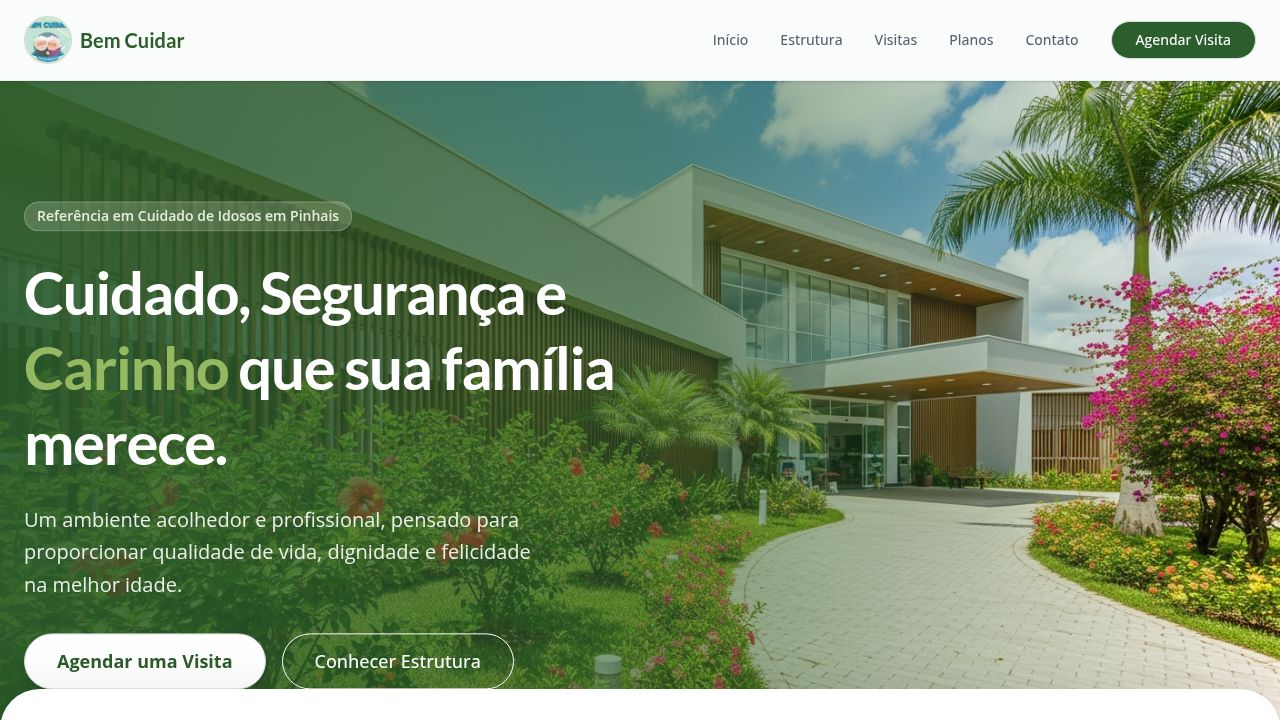
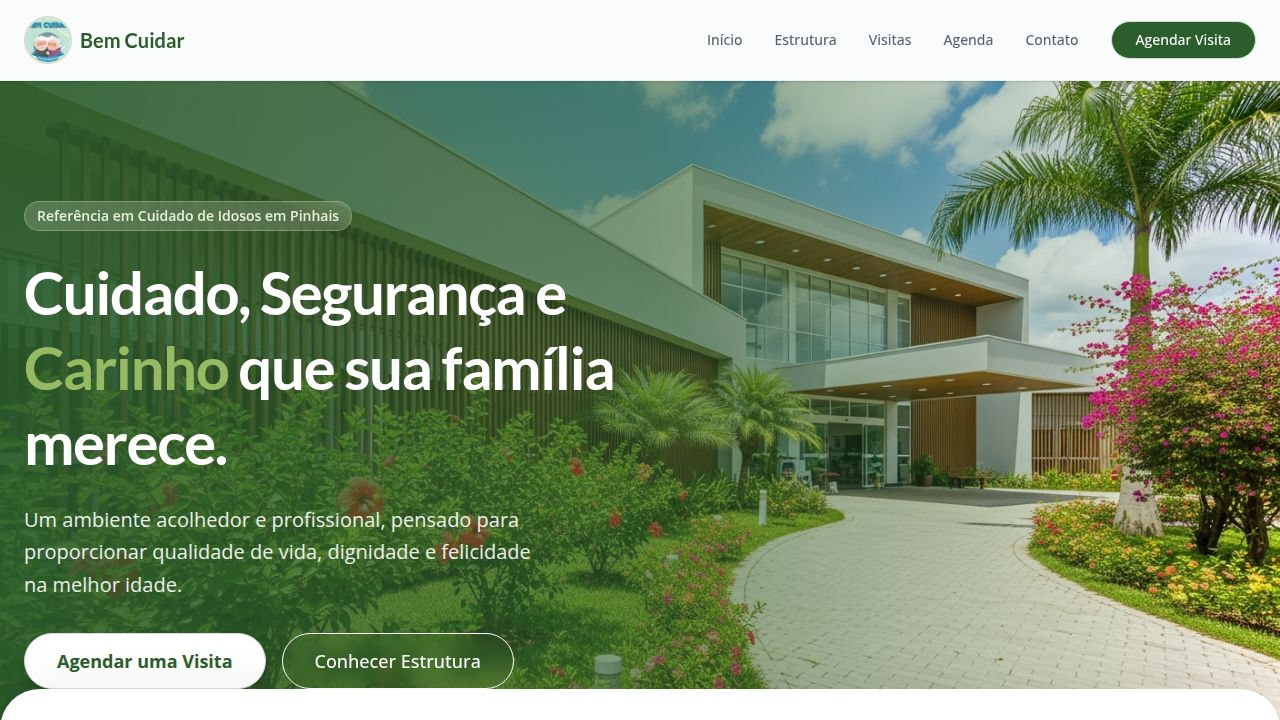
Update website to display monthly events calendar
Replaced the "Pricing" section with an "Events Calendar" component. Implemented functionality to add and remove events, updating navigation links and the footer accordingly.

Replit-Commit-Author: Agent
Replit-Commit-Session-Id: d6f86109-da02-4c51-b2ce-20e74813e2aa
Replit-Commit-Checkpoint-Type: full_checkpoint
Replit-Commit-Event-Id: f1f85dec-6315-4601-aa45-953a1997d51e
Replit-Commit-Screenshot-Url: https://storage.googleapis.com/screenshot-production-us-central1/2fa7d28e-f848-4b19-a7bf-7d39d6e118d5/d6f86109-da02-4c51-b2ce-20e74813e2aa/PxUGny5
Replit-Helium-Checkpoint-Created: true

diff --git a/client/src/components/sections/EventsCalendar.tsx b/client/src/components/sections/EventsCalendar.tsx
@@ -1,0 +1,308 @@
+import { useState } from "react";
+import { Calendar as CalendarIcon, Clock, MapPin, Users, Plus, Trash2 } from "lucide-react";
+import { Button } from "@/components/ui/button";
+import {
+  Dialog,
+  DialogContent,
+  DialogDescription,
+  DialogFooter,
+  DialogHeader,
+  DialogTitle,
+  DialogTrigger,
+} from "@/components/ui/dialog";
+import { Input } from "@/components/ui/input";
+import { Label } from "@/components/ui/label";
+import { Textarea } from "@/components/ui/textarea";
+
+interface Event {
+  id: number;
+  day: string;
+  month: string;
+  title: string;
+  time: string;
+  location: string;
+  audience: string;
+  description: string;
+  type: 'fixed' | 'special';
+}
+
+const initialEvents: Event[] = [
+  {
+    id: 1,
+    day: "06",
+    month: "DEZ",
+    title: "Bola de Neve - Aniversariantes do Mês",
+    time: "15:00 - 17:00",
+    location: "Salão de Festas",
+    audience: "Todos os residentes",
+    description: "Celebração dos aniversariantes do mês com bolo, música e muita alegria",
+    type: 'special'
+  },
+  {
+    id: 2,
+    day: "13",
+    month: "DEZ",
+    title: "Culto Congregação Cristã",
+    time: "14:00 - 16:00",
+    location: "Sala de Atividades",
+    audience: "Aberto a todos",
+    description: "Momento de fé e reflexão espiritual",
+    type: 'fixed'
+  },
+  {
+    id: 3,
+    day: "14",
+    month: "DEZ",
+    title: "Encontro Espírita",
+    time: "10:00 - 12:00",
+    location: "Sala de Atividades",
+    audience: "Aberto a todos",
+    description: "Encontro espírita com passes e evangelização",
+    type: 'fixed'
+  },
+  {
+    id: 4,
+    day: "27",
+    month: "DEZ",
+    title: "Culto Congregação Cristã",
+    time: "14:00 - 16:00",
+    location: "Sala de Atividades",
+    audience: "Aberto a todos",
+    description: "Momento de fé e reflexão espiritual",
+    type: 'fixed'
+  },
+  {
+    id: 5,
+    day: "28",
+    month: "DEZ",
+    title: "Culto Universal",
+    time: "10:00 - 12:00",
+    location: "Sala de Atividades",
+    audience: "Aberto a todos",
+    description: "Culto da Igreja Universal do Reino de Deus",
+    type: 'fixed'
+  }
+];
+
+export function EventsCalendar() {
+  const [events, setEvents] = useState<Event[]>(initialEvents);
+  const [isOpen, setIsOpen] = useState(false);
+  
+  // Form State
+  const [newEvent, setNewEvent] = useState({
+    day: "",
+    month: "DEZ",
+    title: "",
+    time: "",
+    location: "",
+    audience: "",
+    description: ""
+  });
+
+  const handleAddEvent = () => {
+    if (!newEvent.day || !newEvent.title) return;
+
+    const event: Event = {
+      id: Date.now(),
+      day: newEvent.day.padStart(2, '0'),
+      month: newEvent.month,
+      title: newEvent.title,
+      time: newEvent.time,
+      location: newEvent.location,
+      audience: newEvent.audience,
+      description: newEvent.description,
+      type: 'special'
+    };
+
+    setEvents([...events, event].sort((a, b) => parseInt(a.day) - parseInt(b.day)));
+    setIsOpen(false);
+    setNewEvent({
+      day: "",
+      month: "DEZ",
+      title: "",
+      time: "",
+      location: "",
+      audience: "",
+      description: ""
+    });
+  };
+
+  const handleDeleteEvent = (id: number) => {
+    setEvents(events.filter(e => e.id !== id));
+  };
+
+  return (
+    <section id="events" className="py-24 bg-white relative overflow-hidden">
+      {/* Background decoration */}
+      <div className="absolute top-0 left-0 w-full h-20 bg-gradient-to-b from-accent/30 to-transparent"></div>
+
+      <div className="container mx-auto px-4 md:px-6 relative z-10">
+        <div className="flex flex-col md:flex-row justify-between items-end mb-12 gap-6">
+          <div className="max-w-3xl">
+            <h2 className="text-3xl md:text-4xl font-heading font-bold text-primary mb-4">
+              Agenda de Eventos
+            </h2>
+            <p className="text-muted-foreground text-lg">
+              Acompanhe nossa programação mensal. Oferecemos atividades religiosas, recreativas e comemorativas 
+              para promover a interação e bem-estar de todos.
+            </p>
+          </div>
+          
+          <Dialog open={isOpen} onOpenChange={setIsOpen}>
+            <DialogTrigger asChild>
+              <Button className="bg-primary hover:bg-primary/90 text-white rounded-full gap-2 shadow-lg">
+                <Plus size={18} /> Adicionar Evento
+              </Button>
+            </DialogTrigger>
+            <DialogContent className="sm:max-w-[425px]">
+              <DialogHeader>
+                <DialogTitle>Adicionar Novo Evento</DialogTitle>
+                <DialogDescription>
+                  Insira os detalhes do evento para a agenda deste mês.
+                </DialogDescription>
+              </DialogHeader>
+              <div className="grid gap-4 py-4">
+                <div className="grid grid-cols-4 items-center gap-4">
+                  <Label htmlFor="day" className="text-right">Dia</Label>
+                  <Input 
+                    id="day" 
+                    type="number" 
+                    placeholder="DD" 
+                    className="col-span-3" 
+                    value={newEvent.day}
+                    onChange={(e) => setNewEvent({...newEvent, day: e.target.value})}
+                  />
+                </div>
+                <div className="grid grid-cols-4 items-center gap-4">
+                  <Label htmlFor="title" className="text-right">Título</Label>
+                  <Input 
+                    id="title" 
+                    placeholder="Nome do evento" 
+                    className="col-span-3"
+                    value={newEvent.title}
+                    onChange={(e) => setNewEvent({...newEvent, title: e.target.value})}
+                  />
+                </div>
+                <div className="grid grid-cols-4 items-center gap-4">
+                  <Label htmlFor="time" className="text-right">Horário</Label>
+                  <Input 
+                    id="time" 
+                    placeholder="14:00 - 16:00" 
+                    className="col-span-3"
+                    value={newEvent.time}
+                    onChange={(e) => setNewEvent({...newEvent, time: e.target.value})}
+                  />
+                </div>
+                <div className="grid grid-cols-4 items-center gap-4">
+                  <Label htmlFor="location" className="text-right">Local</Label>
+                  <Input 
+                    id="location" 
+                    placeholder="Sala de Atividades" 
+                    className="col-span-3"
+                    value={newEvent.location}
+                    onChange={(e) => setNewEvent({...newEvent, location: e.target.value})}
+                  />
+                </div>
+                <div className="grid grid-cols-4 items-center gap-4">
+                  <Label htmlFor="audience" className="text-right">Público</Label>
+                  <Input 
+                    id="audience" 
+                    placeholder="Aberto a todos" 
+                    className="col-span-3"
+                    value={newEvent.audience}
+                    onChange={(e) => setNewEvent({...newEvent, audience: e.target.value})}
+                  />
+                </div>
+                <div className="grid grid-cols-4 items-center gap-4">
+                  <Label htmlFor="desc" className="text-right">Desc.</Label>
+                  <Textarea 
+                    id="desc" 
+                    placeholder="Detalhes do evento..." 
+                    className="col-span-3"
+                    value={newEvent.description}
+                    onChange={(e) => setNewEvent({...newEvent, description: e.target.value})}
+                  />
+                </div>
+              </div>
+              <DialogFooter>
+                <Button type="submit" onClick={handleAddEvent}>Salvar Evento</Button>
+              </DialogFooter>
+            </DialogContent>
+          </Dialog>
+        </div>
+
+        <div className="grid gap-6">
+          {events.length === 0 ? (
+            <div className="text-center py-12 text-muted-foreground bg-accent/10 rounded-xl">
+              Nenhum evento programado para este mês.
+            </div>
+          ) : (
+            events.map((event) => (
+              <div 
+                key={event.id} 
+                className="group flex flex-col md:flex-row bg-white border border-border/60 rounded-xl shadow-sm hover:shadow-md transition-all overflow-hidden relative"
+              >
+                {/* Date Block */}
+                <div className="bg-primary/5 min-w-[120px] flex flex-col items-center justify-center p-6 border-b md:border-b-0 md:border-r border-border/60">
+                  <span className="text-4xl font-bold text-primary tracking-tighter">{event.day}</span>
+                  <span className="text-sm font-bold text-muted-foreground uppercase tracking-widest">{event.month}.</span>
+                </div>
+
+                {/* Content Block */}
+                <div className="flex-grow p-6 flex flex-col justify-center">
+                  <div className="flex justify-between items-start mb-2">
+                    <h3 className="text-xl font-bold text-foreground group-hover:text-primary transition-colors">
+                      {event.title}
+                    </h3>
+                    <Button 
+                      variant="ghost" 
+                      size="icon" 
+                      className="text-muted-foreground hover:text-destructive -mt-2 -mr-2 opacity-0 group-hover:opacity-100 transition-opacity"
+                      onClick={() => handleDeleteEvent(event.id)}
+                      title="Remover evento"
+                    >
+                      <Trash2 size={18} />
+                    </Button>
+                  </div>
+                  
+                  <div className="flex flex-wrap gap-x-6 gap-y-2 mb-4 text-sm text-muted-foreground">
+                    <div className="flex items-center gap-2">
+                      <Clock size={16} className="text-secondary" />
+                      <span>{event.time}</span>
+                    </div>
+                    <div className="flex items-center gap-2">
+                      <MapPin size={16} className="text-secondary" />
+                      <span>{event.location}</span>
+                    </div>
+                    <div className="flex items-center gap-2">
+                      <Users size={16} className="text-secondary" />
+                      <span>{event.audience}</span>
+                    </div>
+                  </div>
+
+                  <p className="text-muted-foreground/80 leading-relaxed">
+                    {event.description}
+                  </p>
+                </div>
+
+                {/* Decorative Accent */}
+                <div className={`absolute top-0 left-0 w-1 h-full ${event.type === 'fixed' ? 'bg-secondary' : 'bg-primary'}`}></div>
+              </div>
+            ))
+          )}
+        </div>
+
+        <div className="mt-12 grid grid-cols-1 md:grid-cols-2 gap-4">
+           <div className="bg-accent/20 p-4 rounded-lg flex items-center gap-3">
+              <div className="w-3 h-3 rounded-full bg-secondary"></div>
+              <span className="text-sm text-foreground font-medium">Eventos Fixos (Semanais/Mensais)</span>
+           </div>
+           <div className="bg-accent/20 p-4 rounded-lg flex items-center gap-3">
+              <div className="w-3 h-3 rounded-full bg-primary"></div>
+              <span className="text-sm text-foreground font-medium">Eventos Especiais</span>
+           </div>
+        </div>
+      </div>
+    </section>
+  );
+}

diff --git a/client/src/components/layout/Footer.tsx b/client/src/components/layout/Footer.tsx
@@ -32,7 +32,7 @@ export function Footer() {
               <li><a href="#home" className="text-muted-foreground hover:text-primary transition-colors text-sm">Início</a></li>
               <li><a href="#structure" className="text-muted-foreground hover:text-primary transition-colors text-sm">Nossa Estrutura</a></li>
               <li><a href="#visitation" className="text-muted-foreground hover:text-primary transition-colors text-sm">Visitação</a></li>
-              <li><a href="#pricing" className="text-muted-foreground hover:text-primary transition-colors text-sm">Planos e Preços</a></li>
+              <li><a href="#events" className="text-muted-foreground hover:text-primary transition-colors text-sm">Agenda de Eventos</a></li>
             </ul>
           </div>
 

diff --git a/client/src/pages/home.tsx b/client/src/pages/home.tsx
@@ -3,7 +3,7 @@ import { Footer } from "@/components/layout/Footer";
 import { Hero } from "@/components/sections/Hero";
 import { FacilitiesCarousel } from "@/components/sections/FacilitiesCarousel";
 import { VisitationInfo } from "@/components/sections/VisitationInfo";
-import { Pricing } from "@/components/sections/Pricing";
+import { EventsCalendar } from "@/components/sections/EventsCalendar";
 
 export default function Home() {
   return (
@@ -25,7 +25,7 @@ export default function Home() {
         </div>
         <FacilitiesCarousel />
         <VisitationInfo />
-        <Pricing />
+        <EventsCalendar />
       </main>
       <Footer />
     </div>

diff --git a/client/src/components/layout/Navbar.tsx b/client/src/components/layout/Navbar.tsx
@@ -11,7 +11,7 @@ export function Navbar() {
     { name: "Início", href: "#home" },
     { name: "Estrutura", href: "#structure" },
     { name: "Visitas", href: "#visitation" },
-    { name: "Planos", href: "#pricing" },
+    { name: "Agenda", href: "#events" },
     { name: "Contato", href: "#contact" },
   ];
 
